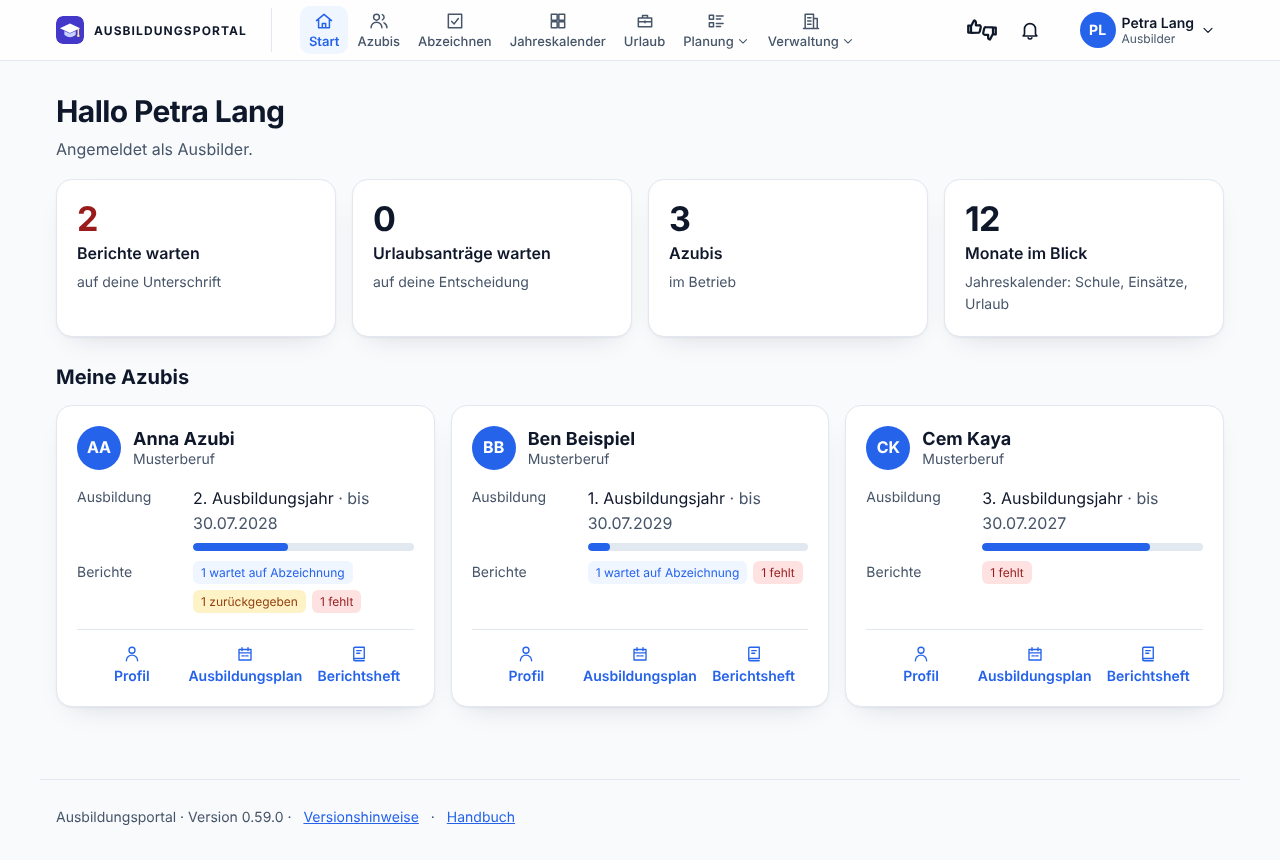
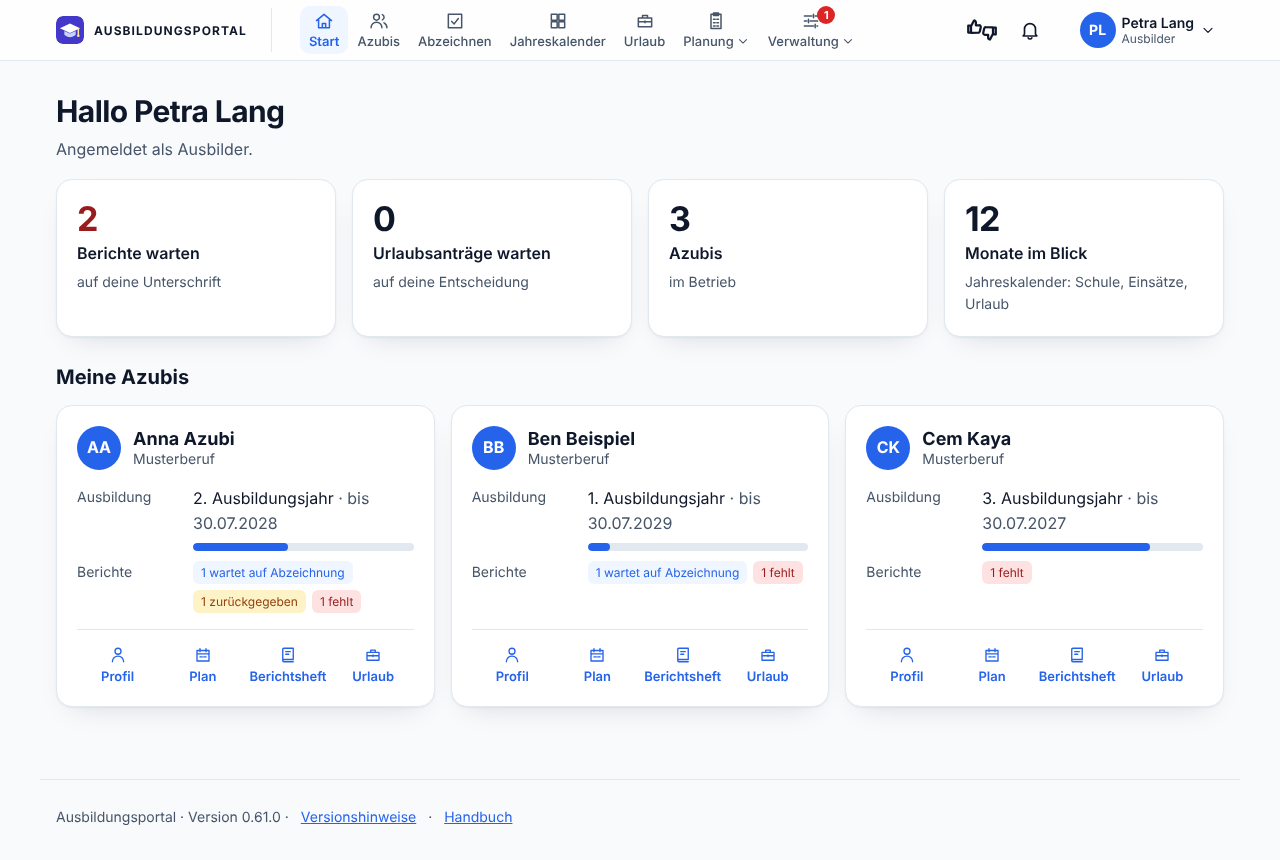
Bildschirmfotos neu erzeugt (Stand 0.61.0)
Alle Bilder neu; dazu „Ausbildungsplan: Inhalt am Handy“.

diff --git a/e2e/bilder.ts b/e2e/bilder.ts
@@ -354,6 +354,14 @@ async function main() {
         await s.click('.lern-navi-klapp summary');
       },
     });
+    await foto(s, '/', 'handy-06-plan-inhalt', 'Ausbildungsplan: Inhalt am Handy', 'Die Zeile „Inhalt“ bleibt beim Rollen stehen und zeigt Jahr und KW. Aufgeklappt springt man zu einem Jahr oder zu „Diese Woche“; dort stehen auch die Abteilungen und die Farben.', {
+      vorher: async () => {
+        // so weit rollen, dass die Zeile oben angeheftet ist
+        await s.evaluate(() => window.scrollTo(0, (document.querySelector('.plan-inhalt') as HTMLElement).getBoundingClientRect().top + window.scrollY + 900));
+        await s.waitForTimeout(400);
+        await s.click('.plan-inhalt summary');
+      },
+    });
     await s.context().close();
     s = await p.seite(PETRA, { ...HANDY, schaerfe: 2 });
     await foto(s, '/abzeichnen', 'handy-04-abzeichnen', 'Abzeichnen am Handy', 'Auch Ausbilder und Beauftragte können alles am Handy erledigen.');

diff --git a/docs/bilder/README.md b/docs/bilder/README.md
@@ -1,6 +1,6 @@
 # So sieht das Ausbildungsportal aus
 
-Bildschirmfotos des Portals, Stand Version 0.59.0 (erzeugt am 13.11.2026).
+Bildschirmfotos des Portals, Stand Version 0.61.0 (erzeugt am 13.11.2026).
 
 **Alle Namen und Inhalte sind erfunden.** Die Bilder entstehen automatisch aus einem frisch gestarteten Portal mit Beispieldaten (`npm run bilder`) – echte Daten eines Betriebs können nicht darin vorkommen.
 
@@ -263,3 +263,9 @@ Auch Ausbilder und Beauftragte können alles am Handy erledigen.
 Aufgeklappt führt „Inhalt“ zu jedem Themenfeld und Unterthema.
 
 ![Inhalt am Handy](handy-05-lernen-inhalt.png)
+
+### Ausbildungsplan: Inhalt am Handy
+
+Die Zeile „Inhalt“ bleibt beim Rollen stehen und zeigt Jahr und KW. Aufgeklappt springt man zu einem Jahr oder zu „Diese Woche“; dort stehen auch die Abteilungen und die Farben.
+
+![Ausbildungsplan: Inhalt am Handy](handy-06-plan-inhalt.png)
